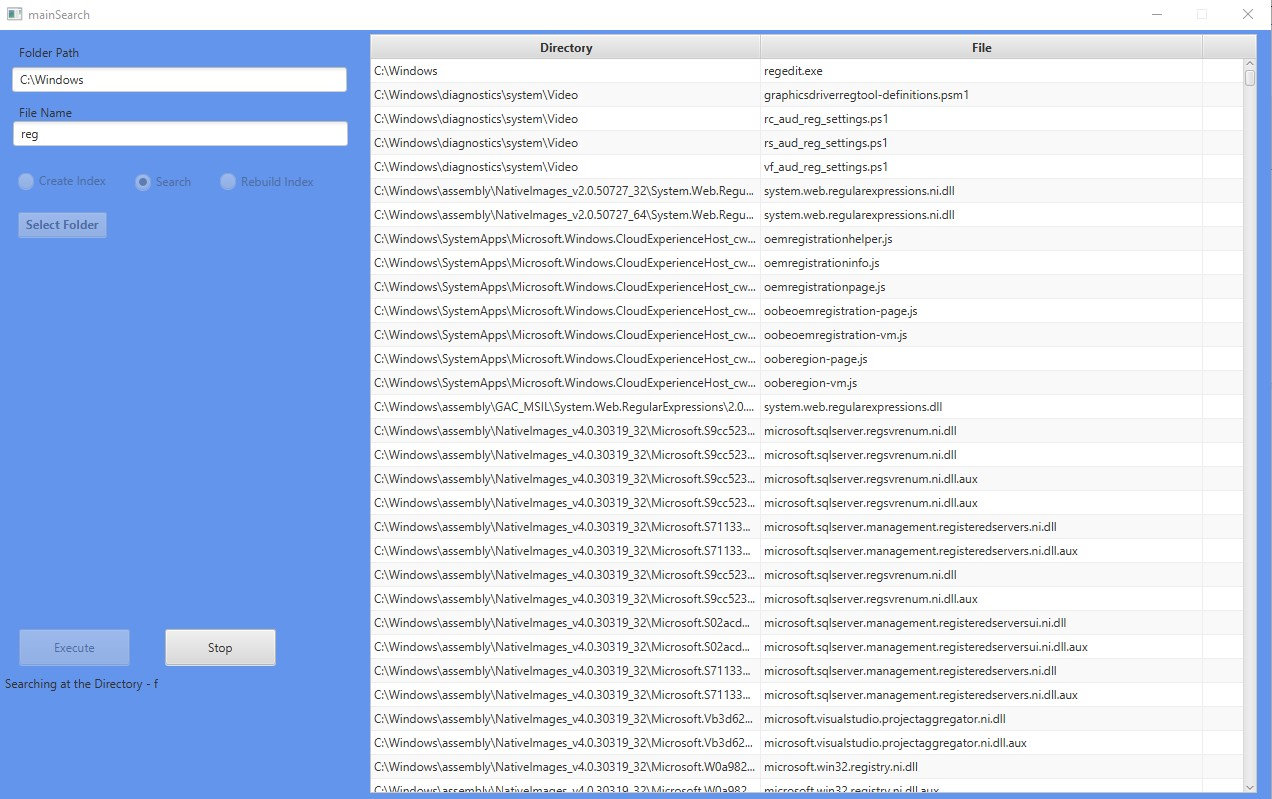
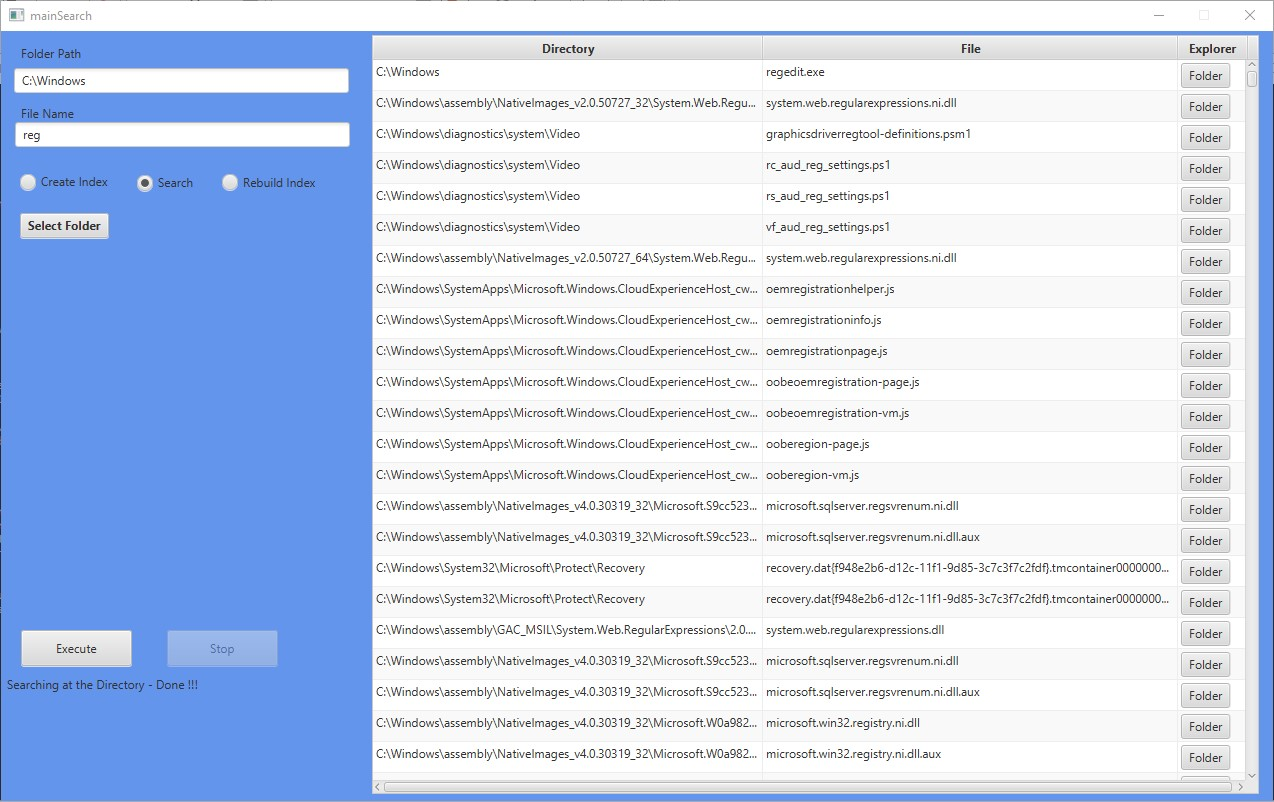
update the documentation

Changed region(s): [[0.0, 0.0, 1.0, 1.0], [0.0, 0.781, 0.2146, 0.8711], [0.0, 0.2103, 0.2453, 0.3004]]

diff --git a/README.md b/README.md
@@ -40,6 +40,8 @@ In order to use the Application to search a file the user must ender.
 
  - The Folder Path
  - File Name
+<br>
+At the button called 'Folder' the user can open the folder that contains the file found doing the search
 
 ![Alt text](docs/tucanoDesktop-1.jpg?raw=true "Application Search Feature")
 
